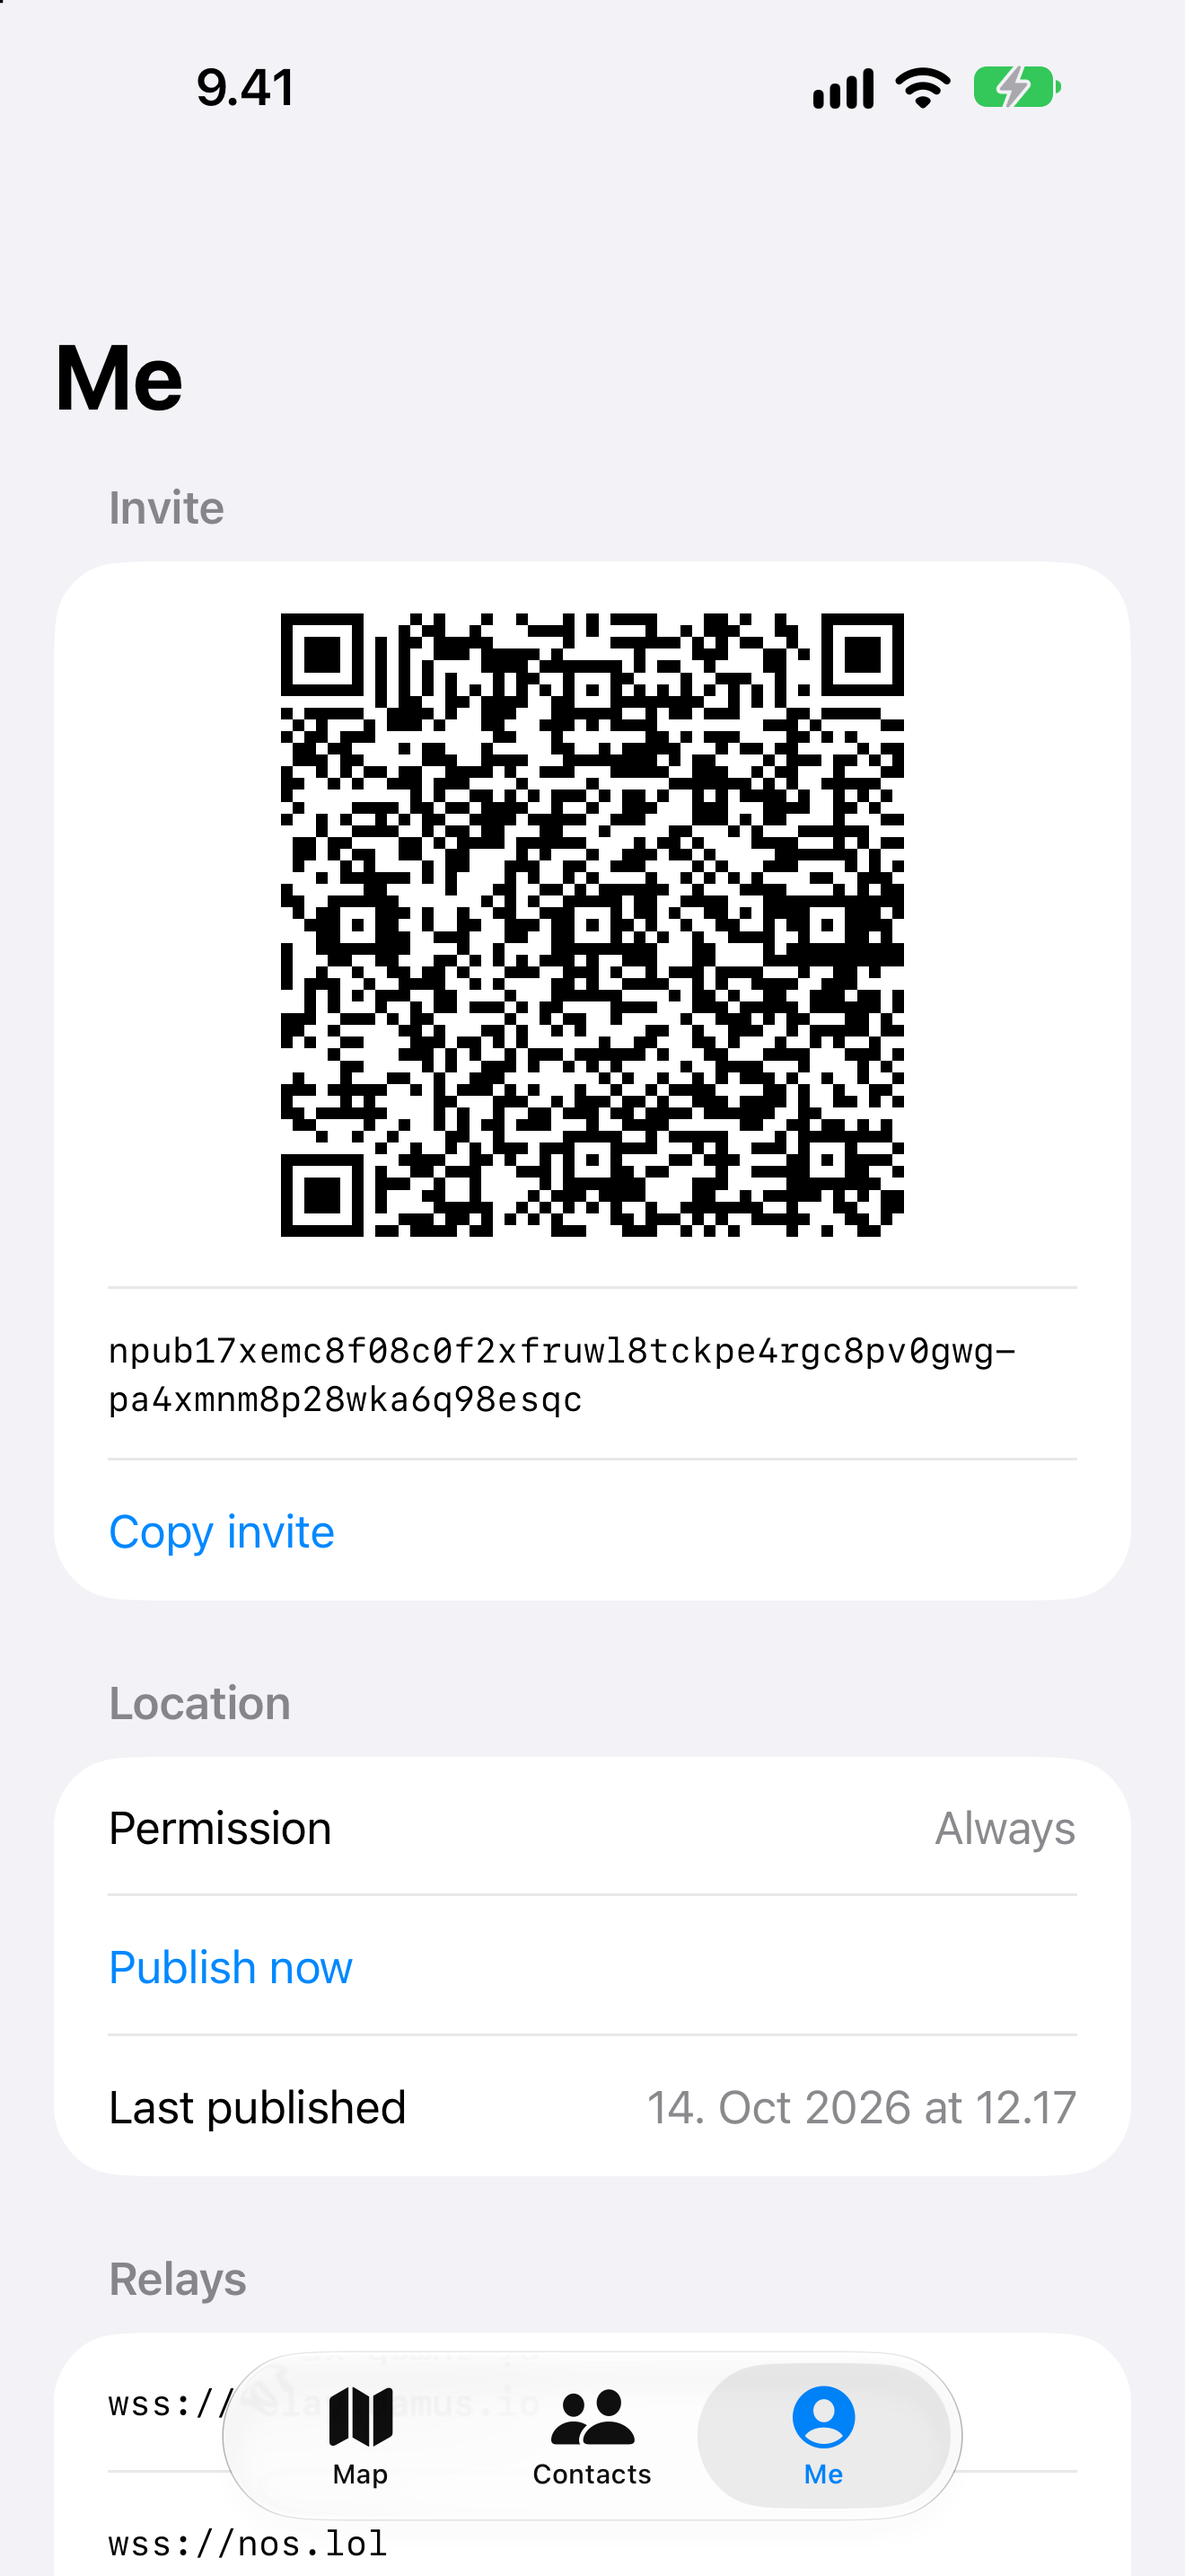
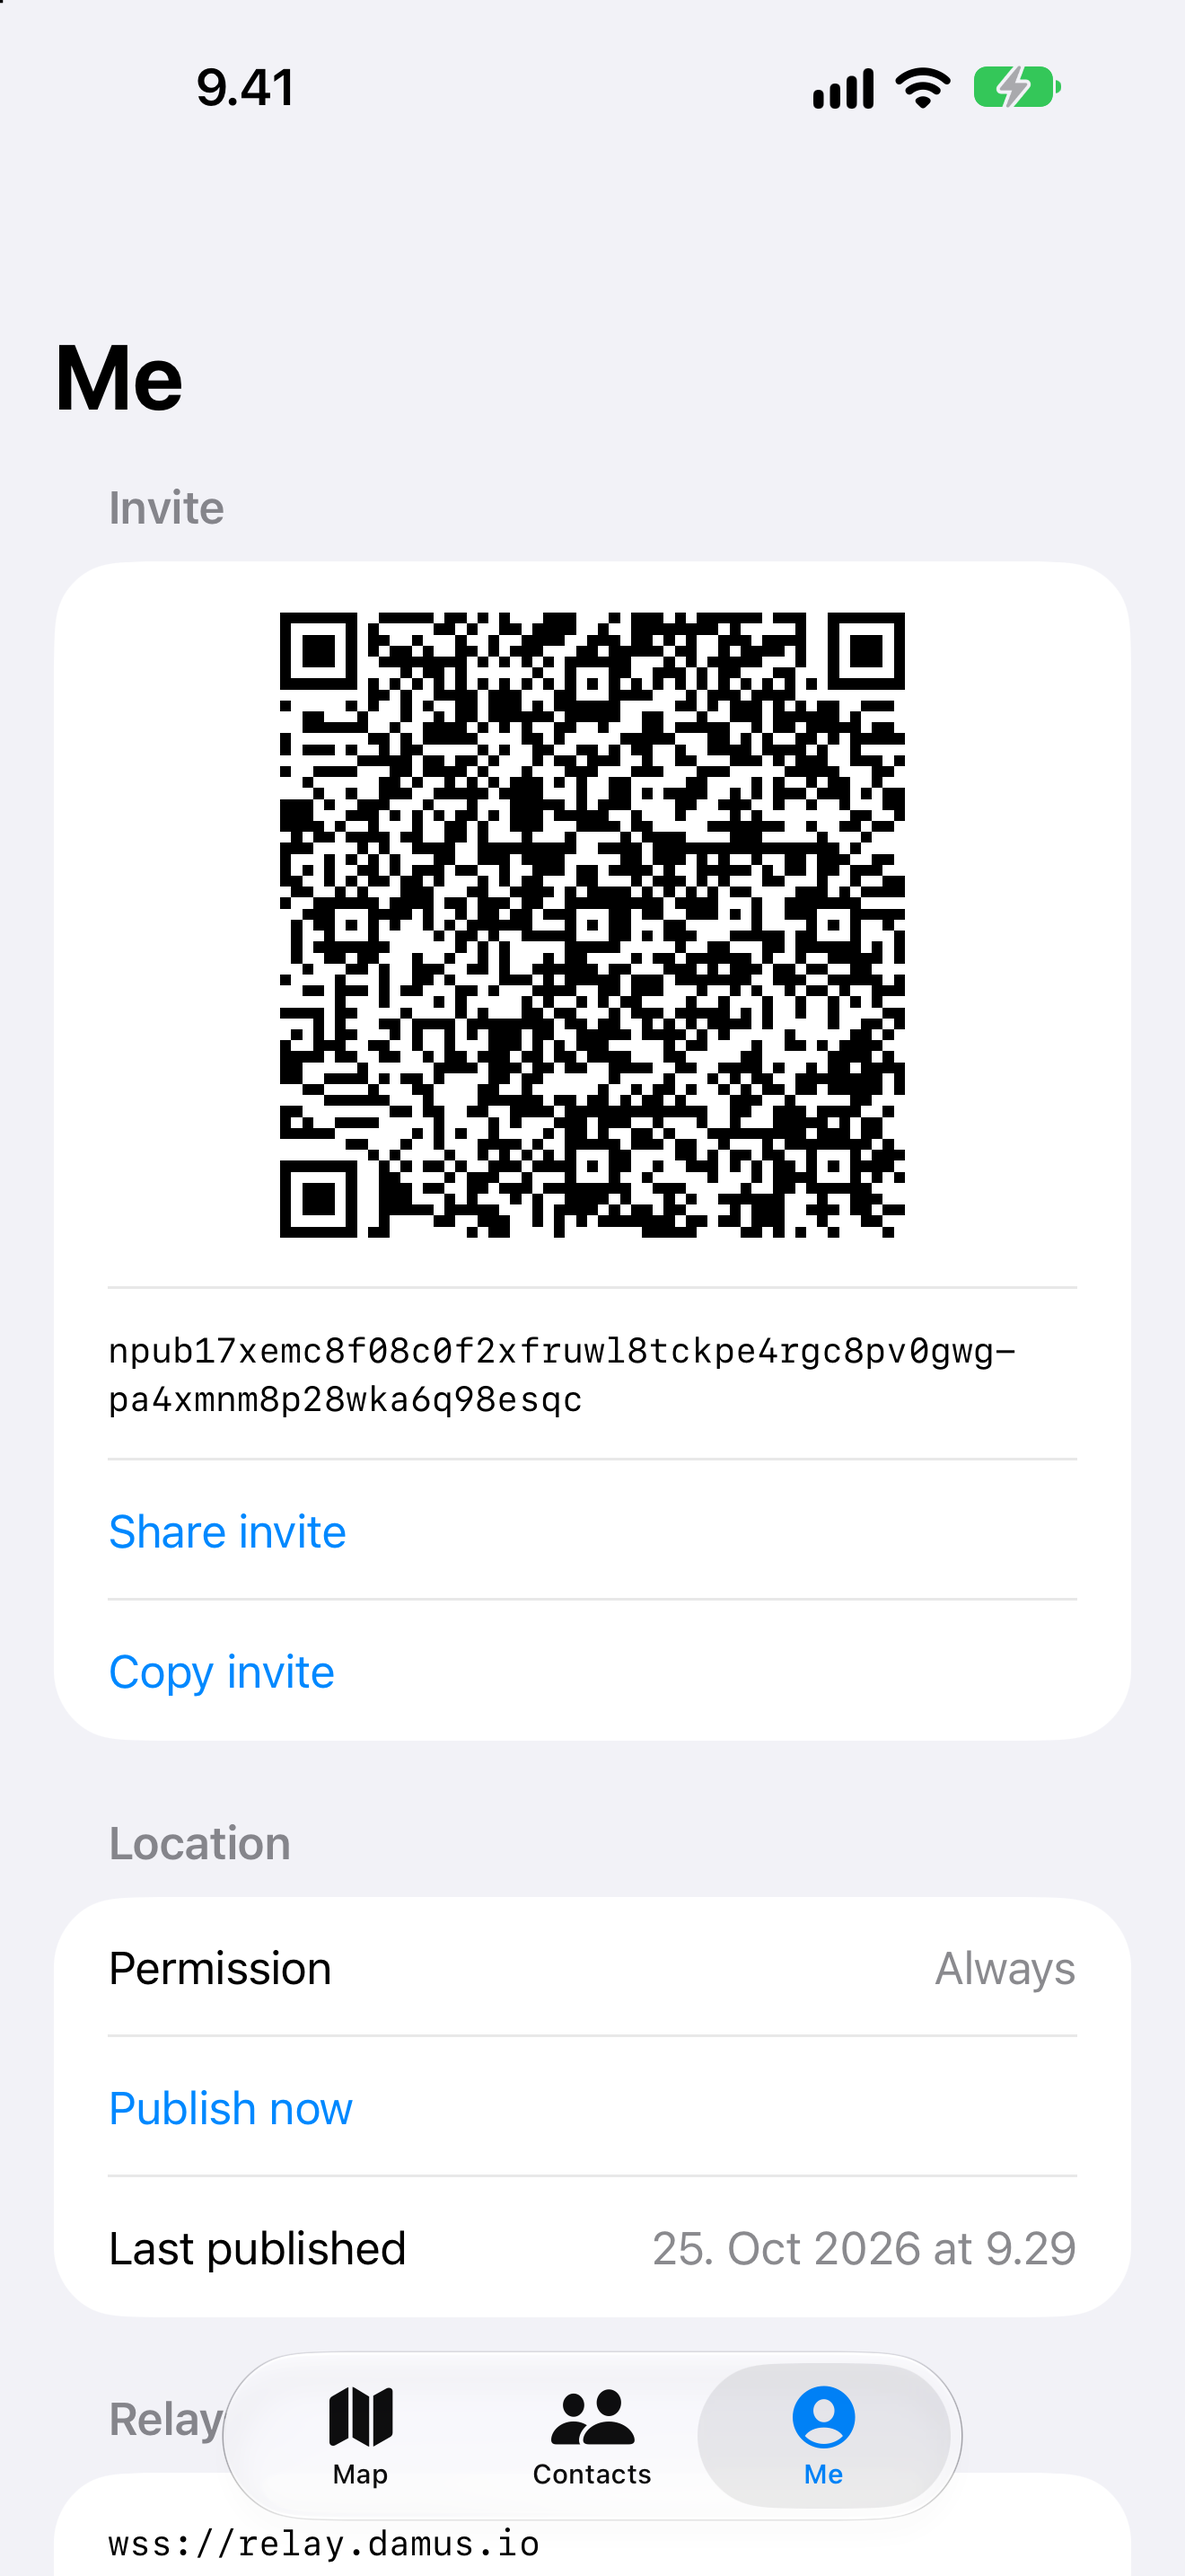
Redo the 6.9-inch App Store Me screenshot
It now shows the Share invite row that the invite link change added
to the Me screen, taken on the iPhone 18 Pro Max simulator like the
rest of that set. The previous commit had left it showing the old
screen.

Prompts behind this commit, as given to Claude Code
(model claude-opus-5-5, effort xhigh):

40.
> research if i need to do the xcode thingy. [a note on how Claude Code
> follows up open questions left out]

(Boot the iPhone 18 Pro Max simulator for the 6.9-inch Me shot)
> Boot it now (Recommended)

diff --git a/PROMPTS.md b/PROMPTS.md
@@ -5,9 +5,20 @@ with its commit and pull request. Square brackets mark what was left out or reda
 commit without a prompts section is left out. This file is generated from the commit messages,
 so a change by hand is lost at the next commit.
 
-## Share invites as links that open the app
+## Redo the 6.9-inch App Store Me screenshot
 
 2026-10-25, [the commit that last changed this file](https://github.com/lambdakilo/mismeet/commits/main/PROMPTS.md), model claude-opus-5-5, effort xhigh.
+
+**40.**
+> research if i need to do the xcode thingy. [a note on how Claude Code
+> follows up open questions left out]
+
+(Boot the iPhone 18 Pro Max simulator for the 6.9-inch Me shot)
+> Boot it now (Recommended)
+
+## Share invites as links that open the app
+
+2026-10-25, commit [e5eb22b](https://github.com/lambdakilo/mismeet/commit/e5eb22bbcddd10736524a9ecb9ff991d01e2a02f), model claude-opus-5-5, effort xhigh.
 
 **38.**
 > signed in can you explain why i need to sign in so much to xcode
